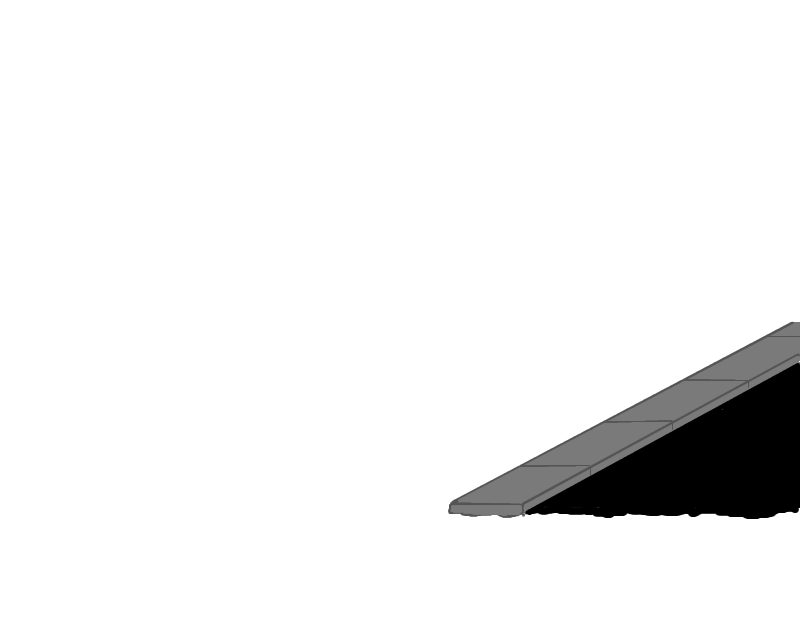
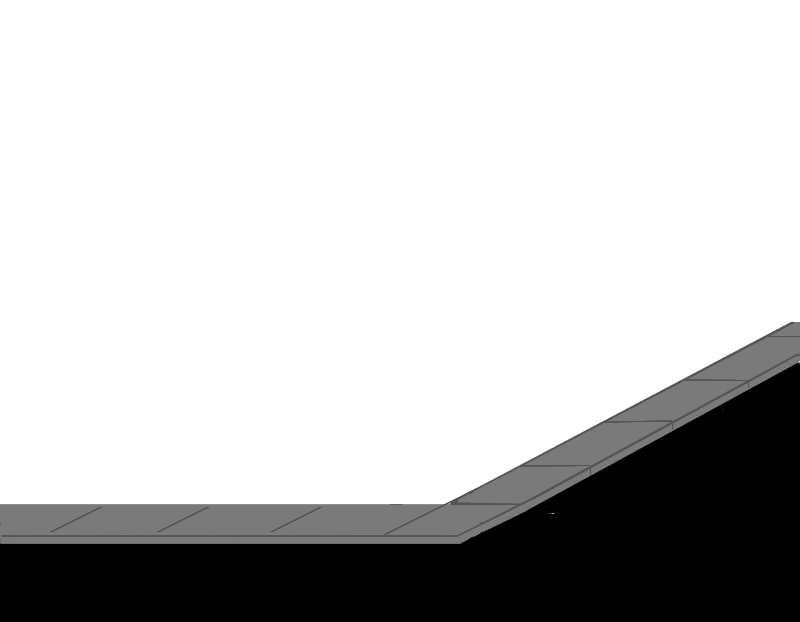
more lawn cleanup extended the street

Changed region(s): [[0.0, 0.7942, 1.0, 1.0]]

diff --git a/gamelib/grass.py b/gamelib/grass.py
@@ -52,10 +52,10 @@ class LawnSegment:
 
     def grow(self):
         for blade in self.grass:
-            blade.height += 2
-            blade.width += 1
+            blade.height += 3
+            blade.width += 2
 
-class NewLawn:
+class Lawn:
     def __init__(self):
         self.street = image.load(data_file('street.png'))
 
@@ -83,6 +83,8 @@ class NewLawn:
         self.green_time = 1
         self.green_counter = self.green_time
 
+        self.mow_rect = Rect(300, 260, 50, 10)
+
     def update(self, tick):
         self.rebuild_counter -= tick
         if self.rebuild_counter <= 0:
@@ -108,6 +110,7 @@ class NewLawn:
 
         glPopMatrix()
         glColor4f(1.0, 1.0, 1.0, 1.0)
+        self.draw_mow_rect()
 
         self.street.blit(0, 0)
 
@@ -123,62 +126,14 @@ class NewLawn:
 
         glColor4f(1, 1, 1, 1)
 
-class Lawn:
-    def __init__(self):
-        self.underground = image.load(data_file('underground-sm.png'))
-        self.street = image.load(data_file('street.png'))
-        self.lawn_segments = 200
-
-        # list of clumps of grass
-        self.lawn = []
-
-        # list of lawn segment display lists
-        self.lawn_cache = []
-
-        # dictionary of positions to individual clumps of grass
-        self.lawn_positions = {}
-
-        self.green_value = 0.3
-        self.green_time = 1
-        self.green_counter = self.green_time
-
-        self.grow_turn = 0
-
-        for lawn_count in range(0, self.lawn_segments):
-            self.lawn.append([])
-            self.lawn_cache.append([])
-            for count in range(0, 20):
-                while True:
-                    blade = Grass(randint(5, SCREEN_WIDTH-5),
-                                  randint(130, SCREEN_HEIGHT/2))
-                    pos = (blade.pos.x, blade.pos.y)
-                    if not self.lawn_positions.get(pos):
-                        self.lawn[lawn_count].append(blade)
-                        self.lawn_positions[pos] = {
-                           'object': blade,
-                           'segment': lawn_count
-                        }
-                        break
-
-            self.build_lawn(lawn_count, fresh_grass=True)
-
-        self.rebuild_time = 0.75
-        self.counter = 0
-
-        self.mow_rect = Rect(300, 260, 50, 10)
-
     def mow(self):
         dirty_segments = {}
         count = 0
         for x in range(self.mow_rect.topleft[0], self.mow_rect.topright[0]):
             for y in range(self.mow_rect.bottomleft[1],
                            self.mow_rect.topleft[1]):
-                grass = self.lawn_positions.get((x, y))
-                if grass:
-                    count += 1
-                    grass['object'].height = 0
-                    grass['object'].width = 0
-                    dirty_segments[grass['segment']] = True
+
+                pass
 
         #print "blades = %d" % count
         #print len(dirty_segments.keys())
@@ -194,66 +149,6 @@ class Lawn:
         glEnd()
 
         glColor4f(1, 1, 1, 1)
-
-    def update(self, tick):
-        self.counter -= tick
-        if self.counter <= 0:
-            self.counter = self.rebuild_time
-
-            #print "grow"
-
-            self.grow_turn += 1
-            if self.grow_turn >= self.lawn_segments:
-                self.grow_turn = 0
-
-            self.build_lawn(self.grow_turn)
-
-        self.green_counter -= tick
-        if self.green_value <= 0.7 and self.green_counter <= 0:
-            #print "green"
-            self.green_value += 0.005
-            self.green_counter = self.green_time
-
-        self.mow()
-
-    def draw_field(self):
-        glColor4f(0.2, self.green_value, 0.2, 1)
-
-        glBegin(GL_POLYGON)
-        glVertex2d(0, 0)
-        glVertex2d(0, SCREEN_HEIGHT/2)
-        glVertex2d(SCREEN_WIDTH, SCREEN_HEIGHT/2)
-        glVertex2d(SCREEN_WIDTH, 0)
-        glEnd()
-
-        glColor4f(1, 1, 1, 1)
-
-    def draw(self):
-        self.draw_field()
-        self.underground.blit(0, 0)
-
-        glPushMatrix()
-
-        for lawn in self.lawn_cache:
-            glCallList(lawn)
-
-        glPopMatrix()
-        glColor4f(1.0, 1.0, 1.0, 1.0)
-        self.street.blit(0, 0)
-
-        self.draw_mow_rect()
-
-    def build_lawn(self, grow_turn, fresh_grass=False):
-        self.lawn_cache[grow_turn] = glGenLists(1)
-        glNewList(self.lawn_cache[grow_turn], GL_COMPILE)
-
-        for grass in self.lawn[grow_turn]:
-            if not fresh_grass:
-                grass.height += 4
-                grass.width += 2
-            grass.draw()
-
-        glEndList()
 
 class Grass:
     def __init__(self, x, y):

diff --git a/gamelib/sky.py b/gamelib/sky.py
@@ -11,7 +11,7 @@ import random
 import euclid
 import math
 
-from grass import NewLawn
+from grass import Lawn
 
 from util import data_file
 
@@ -61,7 +61,7 @@ class Background:
         self.sun = Sun()
         self.moon = Moon()
         self.rain = Rain()
-        self.lawn = NewLawn()
+        self.lawn = Lawn()
         self.clouds = Clouds(self.hsv_color)
 
         self.weather_time = 20
